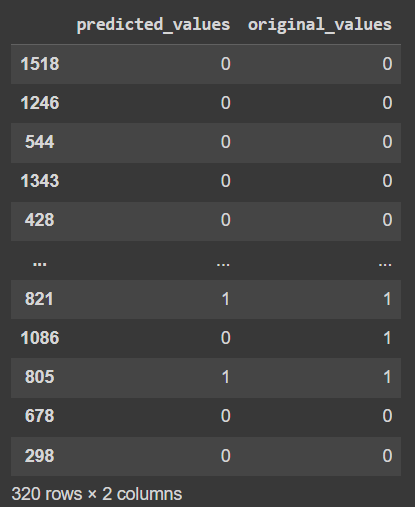
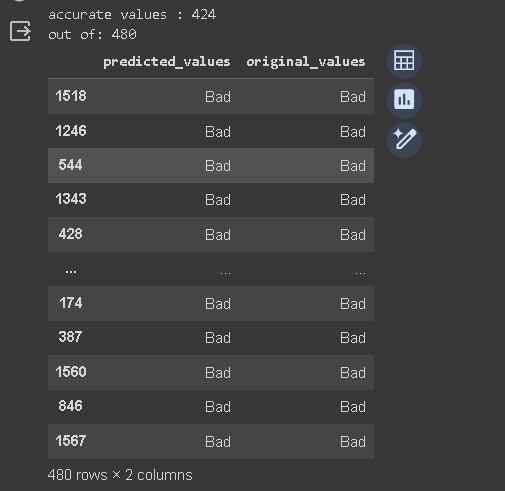
new things

diff --git a/index.html b/index.html
@@ -9,7 +9,7 @@
   <meta name="description" content="">
   <title>OPTIMIZATION PROJECT</title>
   <link rel="stylesheet" href='static/styles/nicepage.css'>
-  <link rel="stylesheet" href='static/styles/OPTIMIZATION-PROJECT.css'>  
+  <link rel="stylesheet" href='static/styles/OPTIMIZATION-PROJECT.css'>
   <script class="u-script" type="text/javascript" src="static/js/jquery.js" defer=""></script>
   <script class="u-script" type="text/javascript" src="static/js/nicepage.js" defer=""></script>
   <meta name="generator" content="Nicepage 6.5.3, nicepage.com">
@@ -377,93 +377,233 @@ c6.177,6.18,9.262,14.271,9.262,22.366C354.708,234.018,351.617,242.115,345.441,24
     </div>
   </section>
 
-  
+
   <section class="u-clearfix u-section-12" id="sec-8a3b">
     <div class="u-clearfix u-sheet u-sheet-1">
-        <h2 class="u-text u-text-1 u-text-center" style="font-family: 'Roboto', sans-serif; color: #602234; text-align: center;">MACHINE LEARNING MODEL SELECTION I</h2>
-        <div class="u-layout u-layout-horizontal u-layout-wrap u-layout-1">
-            <div class="u-container-style u-layout-cell u-size-30 u-layout-cell-1">
-                <div class="u-container-layout u-container-layout-1">
-                    <h3 class="u-text u-text-2 u-text-center" style="font-family: 'Roboto', sans-serif; color: #602234;">Estimation Objectives</h3>
-                    <ul class="u-text u-text-3">
-                        <li>The main objective of the analysis has been to develop a reliable predictive model estimating the quality of red wine based on its chemical properties. Wine quality, serving as the dependent variable, has been assessed and predicted through a set of quantifiable independent variables measured for each wine sample.</li>
-                        <li>The correlation matrix suggests that certain variables exert a greater influence on quality than others. Notably, a significant negative correlation between volatile acidity and quality indicates that wines with lower volatile acidity tend to exhibit better quality. Conversely, a moderate positive correlation between alcohol content and quality suggests that wines with higher alcohol content are better regarded.</li>
-                        <li>From these findings, specific objectives for the analysis have been established:</li>
-                        <ul>
-                            <li>Identify Significant Variables: Determine the independent variables demonstrating statistically significant relationships with wine quality, suitable for inclusion in the predictive model.</li>
-                            <li>Understand the Nature of Relationships: Investigate whether relationships between variables and wine quality are linear or suggest more complex patterns, potentially necessitating nonlinear models or new derived variables.</li>
-                            <li>Predictive Modeling: Utilize insights into variable relationships to construct a precise model capable of not only accurately predicting wine quality but also elucidating the influence of each chemical characteristic on quality perception.</li>
-                            <li>Rigorous Model Evaluation: Ensure the model's ability to generalize to new data, employing appropriate validation techniques to prevent overfitting.</li>
-                        </ul>
-                    </ul>
-                </div>
-            </div>
-            <div class="u-container-style u-layout-cell u-size-30 u-layout-cell-2">
-                <div class="u-container-layout u-container-layout-2">
-                    <h3 class="u-text u-text-4 u-text-center" style="font-family: 'Roboto', sans-serif; color: #602234;">Details About Our First Selected Model</h3>
-                    <div style="display: flex; justify-content: center;">
-                      <img src="static\images\im1.png" alt="Imagen 2">
-                    </div>
-                    <ul class="u-text u-text-5">
-                        <li>Logistic Regression coefficients are easily interpretable, allowing you to understand how each characteristic contributes to the classification of wine quality as "good" or "bad". This provides valuable insights into which characteristics are most important in determining wine quality.</li>
-                        <li>In terms of complexity, Logistic Regression is computationally efficient and can handle large data sets quickly and efficiently. This is beneficial when working with a large number of observations and characteristics.</li>
-                        <li>Since we have binarized the wine quality variable to convert the problem into a binary (good/bad) classification, Logistic Regression is a natural choice for this type of problem.</li>
-                        <li>Logistic Regression can use regularization techniques, such as L1 (Lasso) or L2 (Ridge) regularization, to avoid overfitting and improve the generalization of our model. This is useful when working with features that may be redundant.</li>
-                    </ul>
-                </div>
-            </div>
-            <div class="u-container-style u-layout-cell u-size-30 u-layout-cell-3">
-                <div class="u-container-layout u-container-layout-3">
-                    <h3 class="u-text u-text-6 u-text-center" style="font-family: 'Roboto', sans-serif; color: #602234;">Validation Methods and Metrics Employed</h3>
-                    <ul class="u-text u-text-7">
-                        <li>In terms of validation methods, we have used the technique of splitting data into training and testing. This involves dividing our data set into two parts: one part is used to train the model (training set) and the other part is used to evaluate the performance of the trained model (test set).</li>
-                        <code>x_train, x_test,y_train, y_test = train_test_split(X,Y, test_size=.2, random_state=10)</code>
-                        <li>We normalized the numerical data using Min-Max Scaling to scale it to the range [0, 1], which is a common practice to make sure that all features have the same weight during model training.</li>
-                        <pre>
-                          # creating normalization object
-                          norm = MinMaxScaler()
-                          # fit data
-                          norm_fit = norm.fit(x_train)
-                          x_train = norm_fit.transform(x_train)
-                          x_test = norm_fit.transform(x_test)
-                        </pre>
-                        <li>A binarization process was performed on the 'quality' variable of the dataset so that the expected data would not be so dispersed and thus expect one prediction option or another. This was done by taking the values of this variable and if they were greater than or equal to 7, the quality was categorized as "good", otherwise as "bad".</li>
-                        <code>Y =  df['quality'].apply(lambda y_value: 1 if y_value >= 7 else 0)</code>
-                        <li>Our model obtained an accuracy score of <strong>86.25%</strong>, which shows that it is very reliable.</li>
-                        <!-- <img src="static\images\im3.png" alt="Imagen 2"> -->
-                        <code>lr.score(x_test, y_test)</code>
-                        <li>We show a table comparing the predicted results with the actual results.</li>
-                        <pre>                                            
-                            y_predict = list(lr.predict(x_test))
-                            predicted_df = {'predicted_values': y_predict, 'original_values': y_test}
-                            predicted_df = pd.DataFrame(predicted_df)
-                            predicted_df
-                          </pre>
-                        <div style="display: flex; justify-content: center;">
-                          <img src="static\images\im2.png" alt="Imagen 2">
-                        </div>
-                        <li>To verify the above, we checked which of these results were equal to the expected ones to verify the percentage of accuracy, obtaining that out <strong>of 320 expected results</strong>, <strong>276 accurates predictions</strong>.</li>
-                          <code>
-                            count_equal_values = (predicted_df['predicted_values'] == predicted_df['original_values']).sum()
-                          </code>                    
-                        <!-- <img src="static\images\im4.png" alt="Imagen 2"> -->
-                        
-                    </ul>
-                </div>
-            </div>
-            <div class="u-container-style u-layout-cell u-size-30 u-layout-cell-4">
-                <div class="u-container-layout u-container-layout-4">
-                    <h3 class="u-text u-text-8 u-text-center" style="font-family: 'Roboto', sans-serif; color: #602234;">Preliminary Conclusions</h3>
-                    <ul class="u-text u-text-9">
-                        <li>The logistic regression model has exhibited notably satisfactory performance, yielding a score of 0.8625. This result suggests the model's capability to account for a considerable proportion of variability in wine quality.</li>
-                        <li>According to the correlation matrix, it is observed that the variables "alcohol," "volatile acidity," and "sulphates" exhibit significant correlations with the target variable, wine quality. These variables play a crucial role in predicting wine quality, and therefore, their inclusion in the predictive model is suggested to be responsible for optimal model performance.</li>
-                        <li>A cross-validation strategy with an 80-20 split has been implemented to evaluate the model's generalization ability. Results indicate the model's adequacy in generalizing to new data, implying minimal risk of significant overfitting.</li>
-                    </ul>
-                </div>
-            </div>
+      <h2 class="u-text u-text-1 u-text-center"
+        style="font-family: 'Roboto', sans-serif; color: #602234; text-align: center;">MACHINE LEARNING MODEL SELECTION
+        I</h2>
+      <div class="u-layout u-layout-horizontal u-layout-wrap u-layout-1">
+        <div class="u-container-style u-layout-cell u-size-30 u-layout-cell-1">
+          <div class="u-container-layout u-container-layout-1">
+            <h3 class="u-text u-text-2 u-text-center" style="font-family: 'Roboto', sans-serif; color: #602234;">
+              Estimation Objectives</h3>
+            <ul class="u-text u-text-3">
+              <li>The main objective of the analysis has been to develop a reliable predictive model estimating the
+                quality of red wine based on its chemical properties. Wine quality, serving as the dependent variable,
+                has been assessed and predicted through a set of quantifiable independent variables measured for each
+                wine sample.</li>
+              <li>The correlation matrix suggests that certain variables exert a greater influence on quality than
+                others. Notably, a significant negative correlation between volatile acidity and quality indicates that
+                wines with lower volatile acidity tend to exhibit better quality. Conversely, a moderate positive
+                correlation between alcohol content and quality suggests that wines with higher alcohol content are
+                better regarded.</li>
+              <li>From these findings, specific objectives for the analysis have been established:</li>
+              <ul>
+                <li>Identify Significant Variables: Determine the independent variables demonstrating statistically
+                  significant relationships with wine quality, suitable for inclusion in the predictive model.</li>
+                <li>Understand the Nature of Relationships: Investigate whether relationships between variables and wine
+                  quality are linear or suggest more complex patterns, potentially necessitating nonlinear models or new
+                  derived variables.</li>
+                <li>Predictive Modeling: Utilize insights into variable relationships to construct a precise model
+                  capable of not only accurately predicting wine quality but also elucidating the influence of each
+                  chemical characteristic on quality perception.</li>
+                <li>Rigorous Model Evaluation: Ensure the model's ability to generalize to new data, employing
+                  appropriate validation techniques to prevent overfitting.</li>
+              </ul>
+            </ul>
+          </div>
         </div>
+        <div class="u-container-style u-layout-cell u-size-30 u-layout-cell-2">
+          <div class="u-container-layout u-container-layout-2">
+            <h3 class="u-text u-text-4 u-text-center" style="font-family: 'Roboto', sans-serif; color: #602234;">Details
+              About Our First Selected Model</h3>
+            <div style="display: flex; justify-content: center;">
+              <img src="static\images\im1.png" alt="Imagen 2">
+            </div>
+            <ul class="u-text u-text-5">
+              <li>Logistic Regression coefficients are easily interpretable, allowing you to understand how each
+                characteristic contributes to the classification of wine quality as "good" or "bad". This provides
+                valuable insights into which characteristics are most important in determining wine quality.</li>
+              <li>In terms of complexity, Logistic Regression is computationally efficient and can handle large data
+                sets quickly and efficiently. This is beneficial when working with a large number of observations and
+                characteristics.</li>
+              <li>Since we have binarized the wine quality variable to convert the problem into a binary (good/bad)
+                classification, Logistic Regression is a natural choice for this type of problem.</li>
+              <li>Logistic Regression can use regularization techniques, such as L1 (Lasso) or L2 (Ridge)
+                regularization, to avoid overfitting and improve the generalization of our model. This is useful when
+                working with features that may be redundant.</li>
+            </ul>
+          </div>
+        </div>
+        <div class="u-container-style u-layout-cell u-size-30 u-layout-cell-3">
+          <div class="u-container-layout u-container-layout-3">
+            <h3 class="u-text u-text-6 u-text-center" style="font-family: 'Roboto', sans-serif; color: #602234;">Data
+              preprocessing</h3>
+            <ul class="u-text u-text-7">
+              <li>We choose all columns of the dataframe except our output variable "Quality" as inputs to our model.
+              </li>
+              <code>X = df.drop('quality', axis=1)</code>
+              <br><br>
+              <li>A binarization process was performed on the 'quality' variable of the dataset so that the expected
+                data would not be so dispersed and thus expect one prediction option or another. This was done by taking
+                the values of this variable and if they were greater than or equal to 7, the quality was categorized as
+                "good", otherwise as "bad".</li>
+              <code>Y =  df['quality'].apply(lambda y_value: "Good" if y_value >= 7 else "Bad")</code>
+              <br><br>
+              <li>We have used the technique of splitting data into training and testing. This involves dividing our
+                data set into two parts: one part is used to train the model (training set) and the other part is used
+                to evaluate the performance of the trained model (test set). This last part corresponds to 30% of the
+                data.</li>
+              <code>x_train, x_test,y_train, y_test = train_test_split(X,Y, test_size=.3, random_state=10)</code>
+            </ul>
+          </div>
+        </div>
+
+        <!--Model trainig and validation section-->
+        <div class="u-container-style u-layout-cell u-size-30 u-layout-cell-4">
+          <div class="u-container-layout u-container-layout-4">
+            <h3 class="u-text u-text-8 u-text-center" style="font-family: 'Roboto', sans-serif; color: #602234;">Model
+              trainig and validation</h3>
+            <ul class="u-text u-text-9">
+              <li>We fit the model with the training data.</li>
+              <code>lr = LogisticRegression()</code>
+              <p></p>
+              <code>lr.fit(x_train, y_train)</code>
+              <br></br>
+
+              <li>Our model obtained an accuracy score of <strong>88%</strong>, which shows that it is very reliable.
+              </li>
+              <!-- <img src="static\images\im3.png" alt="Imagen 2"> -->
+              <code>lr.score(x_test, y_test)</code>
+              <br></br>
+              <div style="display: flex">
+                <img src="static\images\score.png" alt="Imagen 2">
+              </div>
+              <br></br>
+              Look at some other metrics of our model such as precision, recall, and F1 score.
+              <br></br>
+
+              <li><strong>Precision</strong></li>
+              <div style="display: flex">
+                <img src="static\images\precision.png" alt="Imagen 2">
+              </div>
+              <p></p>
+              <li><strong>Recall</strong></li>
+              <div style="display: flex">
+                <img src="static\images\recall.png" alt="Imagen 2">
+              </div>
+              <p></p>
+              <li><strong>F1 Score</strong></li>
+              <div style="display: flex">
+                <img src="static\images\f1.png" alt="Imagen 2">
+              </div>
+              <br></br>
+              <li>Even, we can even see the confusion matrix</li>
+
+              <pre style="text-align: left;">
+                        df_ = pd.DataFrame(confusion_matrix(y_test, lr.predict(x_test), normalize='all'))
+                        df_.columns = ['Bad', 'Good']
+                        df_.index =  ['Bad', 'Good']
+                        sns.heatmap(df_, annot=True)
+                      </pre>
+              <div style="display: flex;justify-content: center;">
+                <img src="static\images\matrix.png" alt="Imagen 2">
+              </div>
+              <br></br>
+              <li>We show a table comparing the predicted results with the actual results.</li>
+              <pre>
+                          y_predict = list(lr.predict(x_test))
+                          predicted_df = {'predicted_values': y_predict, 'original_values': y_test}
+                          predicted_df = pd.DataFrame(predicted_df)
+                          predicted_df
+                        </pre>
+              <div style="display: flex; justify-content: center;">
+                <img src="static\images\im2.png" alt="Imagen 2">
+              </div>
+              <p></p>
+              <li>To verify the above, we checked which of these results were equal to the expected ones to verify the
+                percentage of accuracy, obtaining that out <strong>of 480 expected results</strong>, <strong>424
+                  accurates predictions</strong>.</li>
+            </ul>
+          </div>
+        </div>
+        <!--Using cross validation section-->
+        <div class="u-container-style u-layout-cell u-size-30 u-layout-cell-5">
+          <div class="u-container-layout u-container-layout-5">
+            <h3 class="u-text u-text-10 u-text-center" style="font-family: 'Roboto', sans-serif; color: #602234;">Using
+              cross validation</h3>
+            <p>Metrics obtained from a single dataset in a machine learning model may not be indicative of its real-world
+            performance on unseen data. This is because the model might have overfit or learned specific features of
+            that particular dataset, leading to biased evaluation.</p>
+
+            <p>Cross-validation is a crucial technique that addresses this issue by splitting the dataset into multiple
+            partitions and performing multiple iterations of training and evaluation. This allows us to assess the
+            model's performance on different subsets of data and calculate more robust and generalizable evaluation
+            metrics. By averaging the metrics across multiple cross-validation runs, we obtain a more reliable estimate
+            of the model's performance on new and unseen data.</p>
+            <pre>
+            <code>
+            lr_scores = []
+            lr_precision = []
+            lr_f1 = []  
+            lr_recall = []
+            for k in range(1000):
+              x_train, x_test, y_train, y_test = train_test_split(X,Y, test_size=.3, random_state=k+1)
+              lr = LogisticRegression()
+              lr.fit(x_train, y_train)
+              lr_scores.append(lr.score(x_test, y_test))
+              lr_precision.append(precision_score(y_test, lr.predict(x_test), pos_label='Good'))
+              lr_recall.append(recall_score(y_test, lr.predict(x_test), pos_label='Good'))
+              lr_f1.append(f1_score(y_test, lr.predict(x_test), pos_label='Good'))
+            </code>
+            </pre >
+            <ul class="u-text u-text-11">
+              <li>In this case we will do 1000 iterations. In each iteration we will make a different partition for the training and test data of our model. We will do this by changing the <code>random_state</code> to the iteration number we are in.</li>
+              <li>We will save the score, precision, recall and f1 score of each iteration and then we will see their distributions.</li>
+              <li><strong>Precison</strong></li>
+              <code>sns.kdeplot(lr_scores,fill=True)</code>
+              <div style="display: flex; justify-content: center;">
+                <img src="static\images\precision_cross.png" alt="Imagen 2">
+              </div>
+              <br/>
+              <li><strong>Recall</strong></li>
+              <code>sns.kdeplot(lr_recall,fill=True)</code>
+              <div style="display: flex; justify-content: center;">
+                <img src="static\images\recall_cross.png" alt="Imagen 2">
+              </div>
+              <br/>
+              <li><strong>F1 Score</strong></li>
+              <code>sns.kdeplot(lr_f1,fill=True)</code>
+              <div style="display: flex; justify-content: center;">
+                <img src="static\images\f1_cross.png" alt="Imagen 2">
+              </div>
+            </ul>
+          </div>
+        </div>
+        <div class="u-container-style u-layout-cell u-size-30 u-layout-cell-4">
+          <div class="u-container-layout u-container-layout-4">
+            <h3 class="u-text u-text-8 u-text-center" style="font-family: 'Roboto', sans-serif; color: #602234;">
+              Preliminary Conclusions</h3>
+            <ul class="u-text u-text-9">
+              <li>The logistic regression model has exhibited notably satisfactory performance, yielding a score of
+                <strong>88%</strong>. This result suggests the model's capability to account for a considerable proportion of
+                variability in wine quality.</li>
+              
+              <li>A cross-validation strategy with an 70-30 split has been implemented to evaluate the model's
+                generalization ability. Results indicate the model's adequacy in generalizing to new data, implying
+                minimal risk of significant overfitting.</li>
+
+                <li>F1 Score (around 87): This metric indicates a balance between precision and recall. An F1 score of 87 is quite high and suggests that the model is able to achieve a good balance between identifying relevant instances (precision) and capturing all relevant instances (recall).</li>
+                <li>Precision (around 61): Precision measures the proportion of correctly predicted "good" instances among all instances predicted as "good" by the model. A precision of 61 indicates that when the model predicts an instance as "good," it is correct about 61% of the time. This suggests that the model is reasonably good at avoiding false positives.</li>     
+                <li>Recall (around 25): Recall measures the proportion of correctly predicted "good" instances among all actual "good" instances. A recall of 25 means that the model is able to correctly identify about 25% of all actual "good" instances. This suggests that the model is not capturing all "good" instances, indicating room for improvement.</li>
+                <li>In conclusion, while the model's F1 score is high, indicating a good overall performance, the relatively low recall suggests that the model is missing some "good" instances. Depending on the specific requirements of your application, you may need to consider whether this level of performance is acceptable or if further optimization is necessary.</li>
+            </ul>
+          </div>
+        </div>
+      </div>
     </div>
-</section>
+  </section>
 
 </body>
 

diff --git a/static/styles/OPTIMIZATION-PROJECT.css b/static/styles/OPTIMIZATION-PROJECT.css
@@ -376,6 +376,7 @@
   margin: 34px 0 0;
 }
 
+
 .u-section-3 .u-layout-cell-6 {
   min-height: 1000px;
 }
